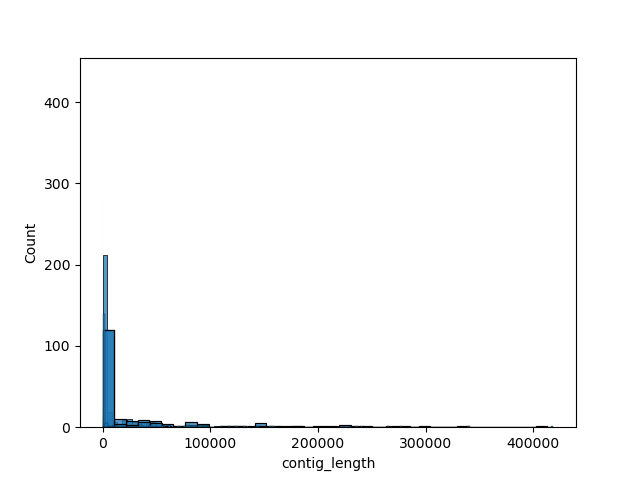
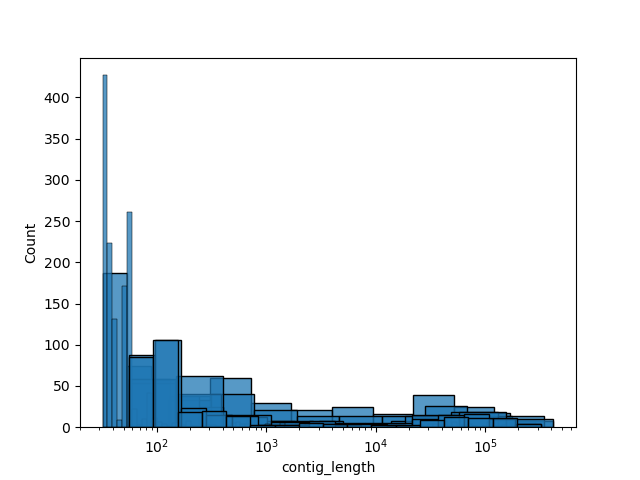
log plots

diff --git a/data/Analysis.md b/data/Analysis.md
@@ -4,69 +4,88 @@
         shortest contig: 56  
         longest contig: 283747  
         N50 of all contigs: 72761.0  
-        N50 of all contigs over 300 bp: 72761
-![contig_plot](../plots/SRR2075991_55.png)
+        N50 of all contigs over 300 bp: 72761  
+![contig_plot](../plots/SRR2075991_55.png) 
+ 
  # statistics analysis for barcode: SRR2075991 assembled with SPAdes with parameter k = auto  
         average contig length: 28736.869565217392  
         total number of contigs: 184  
         shortest contig: 128  
         longest contig: 412932  
         N50 of all contigs: 142689.0  
-        N50 of all contigs over 300 bp: 142689.0
+        N50 of all contigs over 300 bp: 142689.0  
+![contig_plot](../plots/SRR2075991_auto.png) 
+ 
  # statistics analysis for barcode: SRR7828287 assembled with SPAdes with parameter k = 31  
         average contig length: 10239.719587628866  
         total number of contigs: 485  
         shortest contig: 32  
         longest contig: 288956  
         N50 of all contigs: 105498.0  
-        N50 of all contigs over 300 bp: 105498.0
+        N50 of all contigs over 300 bp: 105498.0  
+![contig_plot](../plots/SRR7828287_31.png) 
+ 
  # statistics analysis for barcode: SRR7828287 assembled with SPAdes with parameter k = 55  
         average contig length: 29729.526946107784  
         total number of contigs: 167  
         shortest contig: 56  
         longest contig: 340335  
         N50 of all contigs: 156381  
-        N50 of all contigs over 300 bp: 156381
+        N50 of all contigs over 300 bp: 156381  
+![contig_plot](../plots/SRR7828287_55.png) 
+ 
  # statistics analysis for barcode: SRR7828287 assembled with SPAdes with parameter k = auto  
         average contig length: 25633.72680412371  
         total number of contigs: 194  
         shortest contig: 56  
         longest contig: 418725  
         N50 of all contigs: 156381  
-        N50 of all contigs over 300 bp: 156381
+        N50 of all contigs over 300 bp: 156381  
+![contig_plot](../plots/SRR7828287_auto.png) 
+ 
  # statistics analysis for barcode: SRR1965341 assembled with SPAdes with parameter k = 31  
         average contig length: 3363.1139410187666  
         total number of contigs: 1492  
         shortest contig: 32  
         longest contig: 321983  
         N50 of all contigs: 96827.0  
-        N50 of all contigs over 300 bp: 103861
+        N50 of all contigs over 300 bp: 103861  
+![contig_plot](../plots/SRR1965341_31.png) 
+ 
  # statistics analysis for barcode: SRR1965341 assembled with SPAdes with parameter k = 55  
         average contig length: 15548.29906542056  
         total number of contigs: 321  
         shortest contig: 56  
         longest contig: 322089  
         N50 of all contigs: 110300.0  
-        N50 of all contigs over 300 bp: 110300.0
+        N50 of all contigs over 300 bp: 110300.0  
+![contig_plot](../plots/SRR1965341_55.png) 
+ 
  # statistics analysis for barcode: SRR1965341 assembled with SPAdes with parameter k = auto  
         average contig length: 15843.787301587301  
         total number of contigs: 315  
         shortest contig: 56  
         longest contig: 322089  
         N50 of all contigs: 147418  
-        N50 of all contigs over 300 bp: 147418.0
+        N50 of all contigs over 300 bp: 147418.0  
+![contig_plot](../plots/SRR1965341_auto.png) 
+ 
  # statistics analysis for barcode: SRR5584993 assembled with SPAdes with parameter k = 31  
         average contig length: 10143.620078740158  
         total number of contigs: 508  
         shortest contig: 32  
         longest contig: 214128  
         N50 of all contigs: 83784  
-        N50 of all contigs over 300 bp: 90443
+        N50 of all contigs over 300 bp: 90443  
+![contig_plot](../plots/SRR5584993_31.png) 
+ 
  # statistics analysis for barcode: SRR5584993 assembled with SPAdes with parameter k = 55  
         average contig length: 16090.289719626167  
         total number of contigs: 321  
         shortest contig: 56  
         longest contig: 251418  
         N50 of all contigs: 73507  
-        N50 of all contigs over 300 bp: 73507.0
+        N50 of all contigs over 300 bp: 73507.0  
+![contig_plot](../plots/SRR5584993_55.png) 
+ 
  
